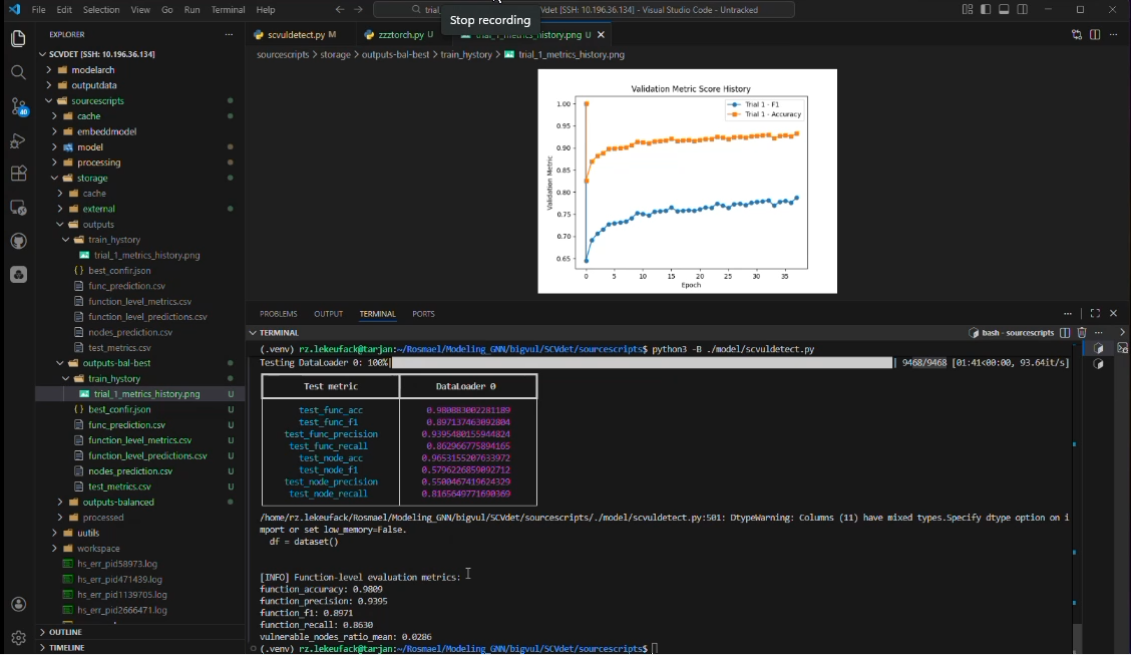
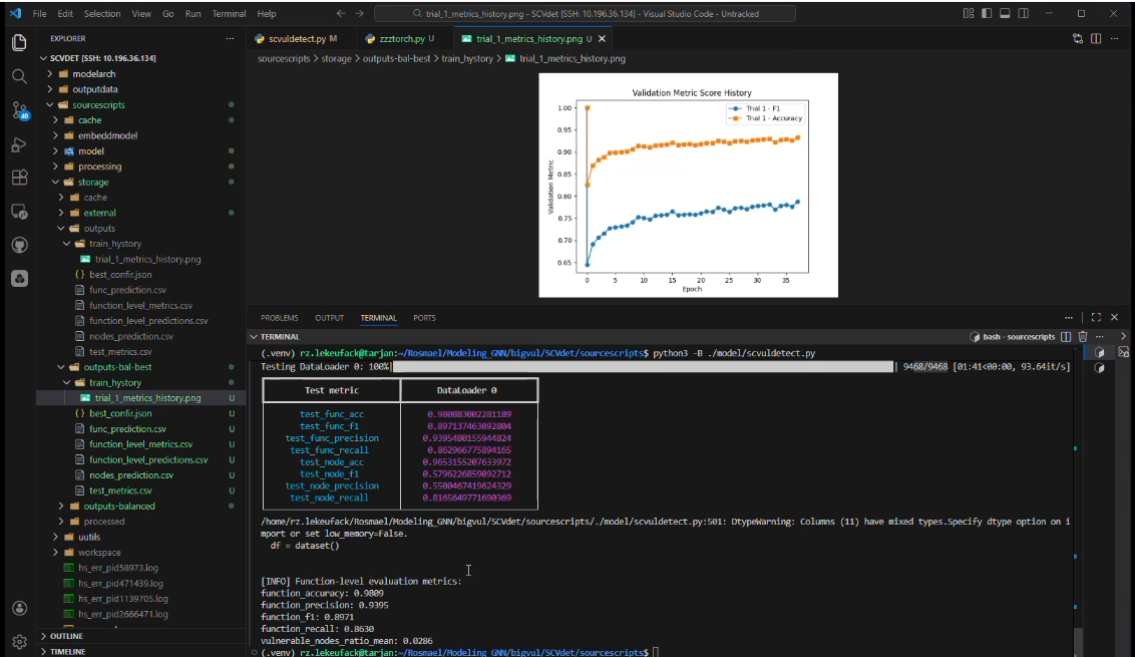
update

diff --git a/README.md b/README.md
@@ -67,7 +67,7 @@ Go to ```outputdata/```
 
 
 #### ***Demo Video***--> Model inference on Bigvul 
-<a href="https://drive.google.com/file/d/1hN5nTqJCM1a3DJe-BqqM0sFYUF6OEUUB/view?usp=sharing" target="_blank">
+<a href="https://drive.google.com/file/d/1aBGnI94ltDb6vw95bdTPGIJ0BgoKJKop/view?usp=sharing" target="_blank">
   <img src="outputdata/image.png" alt="Model Output Example" width="400"/>
 </a>
 
